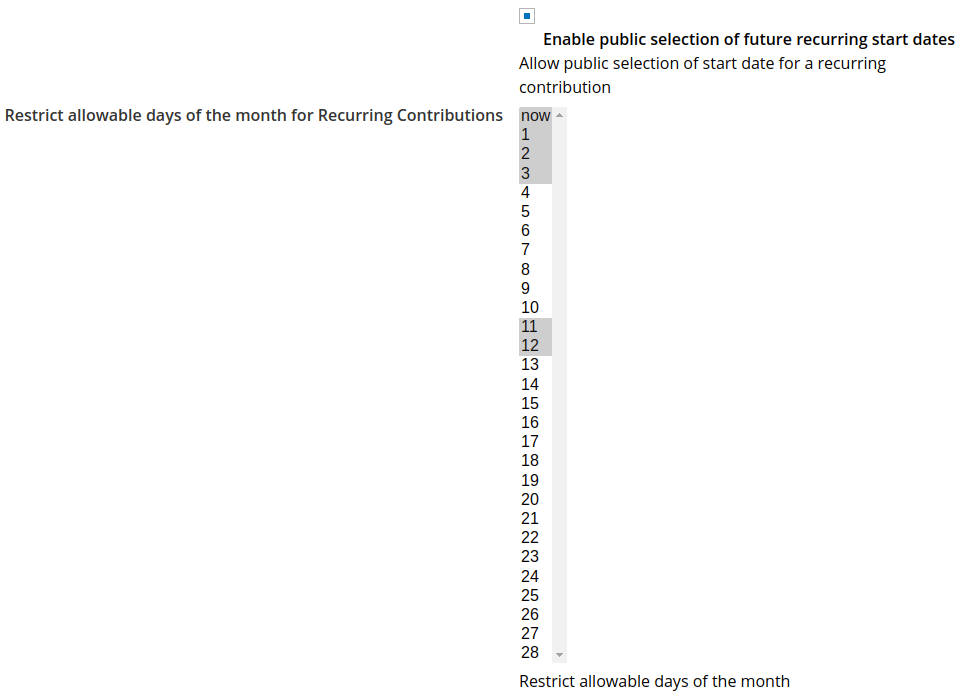
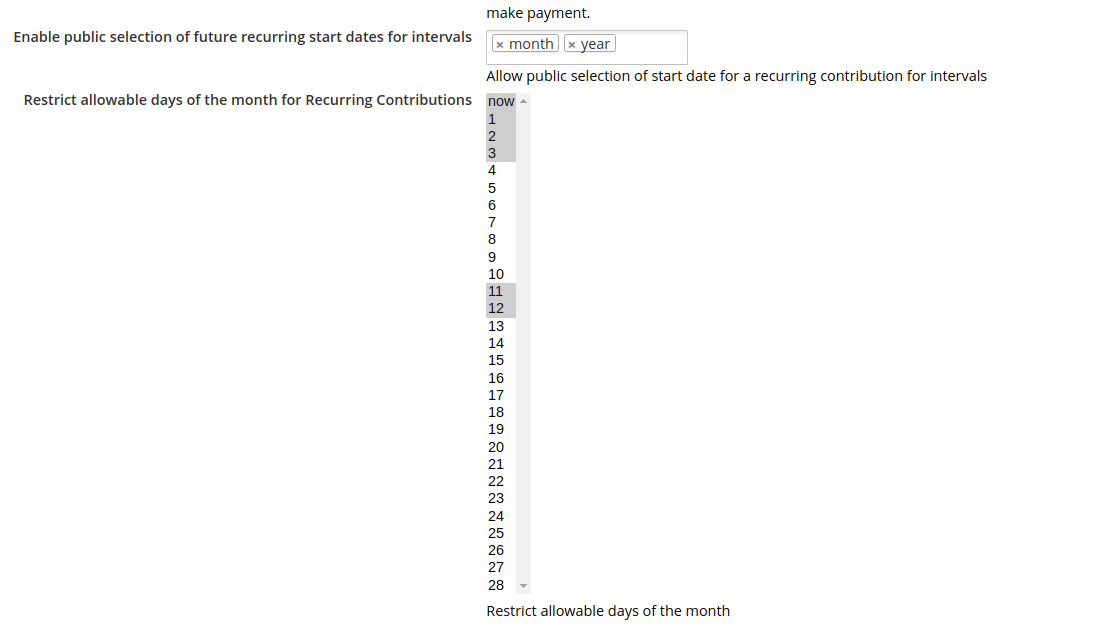
Allow selection of which frequency intervals to enable public recurring start date

Changed region(s): [[0.0, 0.0, 0.9928, 0.9952], [0.4343, 0.3619, 0.4654, 0.9349]]

diff --git a/js/recur_start.js b/js/recur_start.js
@@ -7,7 +7,10 @@ CRM.$(function($) {
    if ($('.is_recur-section').length) {
      $('.is_recur-section #stripe-recurring-start-date').remove();
      $('.is_recur-section').append($('#stripe-recurring-start-date'));
-     cj('input[id="is_recur"]').on('change', function() {
+     $('input[id="is_recur"]').on('change', function() {
+       toggleRecur();
+     });
+     $('select#frequency_unit').on('change', function() {
        toggleRecur();
      });
      toggleRecur();
@@ -20,6 +23,13 @@ CRM.$(function($) {
    function toggleRecur() {
      var isRecur = $('input[id="is_recur"]:checked');
      if (isRecur.val() > 0) {
+       if ($('select#frequency_unit').length > 0) {
+         var selectedFrequencyUnit = $('select#frequency_unit').val();
+         if (CRM.$.inArray(selectedFrequencyUnit, CRM.vars.stripe.startDateFrequencyIntervals) < 0) {
+           hideStartDate();
+           return;
+         }
+       }
        if ($('#receive_date option').length === 1) {
          // We only have one option. No need to offer selection - just show the date
          $('#receive_date').parent('div.content').prev('div.label').hide();
@@ -31,6 +41,10 @@ CRM.$(function($) {
        $('#stripe-recurring-start-date').show().val('');
      }
      else {
+       hideStartDate();
+     }
+
+     function hideStartDate() {
        $('#stripe-recurring-start-date').hide();
        $("#stripe-recurring-start-date option:selected").prop("selected", false);
        $("#stripe-recurring-start-date option:first").prop("selected", "selected");

diff --git a/CRM/Core/Payment/Stripe.php b/CRM/Core/Payment/Stripe.php
@@ -367,6 +367,8 @@ class CRM_Core_Payment_Stripe extends CRM_Core_Payment {
    * @param \CRM_Core_Form $form
    */
   public function buildForm(&$form) {
+    $startDateFrequencyIntervals = \Civi::settings()->get('stripe_enable_public_future_recur_start');
+
     // Don't use \Civi::resources()->addScriptFile etc as they often don't work on AJAX loaded forms (eg. participant backend registration)
     $jsVars = [
       'id' => $form->_paymentProcessor['id'],
@@ -379,6 +381,7 @@ class CRM_Core_Payment_Stripe extends CRM_Core_Payment {
       'apiVersion' => CRM_Stripe_Check::API_VERSION,
       'csrfToken' => class_exists('\Civi\Firewall\Firewall') ? \Civi\Firewall\Firewall::getCSRFToken() : NULL,
       'country' => CRM_Core_BAO_Country::defaultContactCountry(),
+      'startDateFrequencyIntervals' => $startDateFrequencyIntervals,
     ];
 
     \Civi::resources()->addVars(E::SHORT_NAME, $jsVars);
@@ -413,10 +416,20 @@ class CRM_Core_Payment_Stripe extends CRM_Core_Payment {
       )
     ]);
 
+    // We can choose which frequency_intervals to enable future recurring start date for.
+    // If none are enabled (or the contribution page does not have any that are enabled in Stripe settings)
+    //   then don't load the futurerecur elements on the form.
+    $formFrequencyIntervals = explode(CRM_Core_DAO::VALUE_SEPARATOR, $form->_values['recur_frequency_unit']);
+    $startDateFrequencyIntervals = \Civi::settings()->get('stripe_enable_public_future_recur_start');
+    $enableFutureRecur = FALSE;
+    foreach ($formFrequencyIntervals as $interval) {
+      if (in_array($interval, $startDateFrequencyIntervals)) {
+        $enableFutureRecur = TRUE;
+        break;
+      }
+    }
     // Add form element and js to select future recurring start date
-    if (!$this->isBackOffice() && !empty(\Civi::settings()->get('stripe_enable_public_future_recur_start'))
-      && $this->supportsFutureRecurStartDate()
-    ) {
+    if (!$this->isBackOffice() && $enableFutureRecur && $this->supportsFutureRecurStartDate()) {
       $startDates = CRM_Stripe_Recur::getFutureMonthlyStartDates();
       if ($startDates) {
         $form->addElement('select', 'receive_date', ts('Date of first contribution'), $startDates);

diff --git a/settings/stripe.setting.php b/settings/stripe.setting.php
@@ -78,14 +78,22 @@ return [
   ],
   'stripe_enable_public_future_recur_start' => [
     'name' => 'stripe_enable_public_future_recur_start',
-    'type' => 'Boolean',
-    'html_type' => 'checkbox',
-    'default' => 0,
+    'type' => 'Array',
+    'html_type' => 'select',
+    'default' => [],
     'is_domain' => 1,
     'is_contact' => 0,
-    'title' => E::ts('Enable public selection of future recurring start dates'),
-    'description' => E::ts('Allow public selection of start date for a recurring contribution'),
-    'html_attributes' => [],
+    'title' => E::ts('Enable public selection of future recurring start dates for intervals'),
+    'description' => E::ts('Allow public selection of start date for a recurring contribution for intervals'),
+    'html_attributes' => [
+      'multiple' => TRUE,
+      'class' => 'crm-select2',
+    ],
+    'pseudoconstant' => [
+      'optionGroupName' => 'recur_frequency_units',
+      'keyColumn' => 'name',
+      'optionEditPath' => 'civicrm/admin/options/recur_frequency_units',
+    ],
     'settings_pages' => [
       'stripe' => [
         'weight' => 25,

diff --git a/docs/recur.md b/docs/recur.md
@@ -11,7 +11,7 @@ When you create a recurring contribution in CiviCRM using the Stripe payment pro
 
 ## Starting a Recurring contribution in the future
 If you would like your users to be able to specify a future recurring start date you can enable
-`Enable public selection of future recurring start dates` in *Administer->CiviContribute->Stripe Settings*.
+`Enable public selection of future recurring start dates for intervals` in *Administer->CiviContribute->Stripe Settings*.
 
 ![future recur settings](images/settings_futurerecur.png)
 
